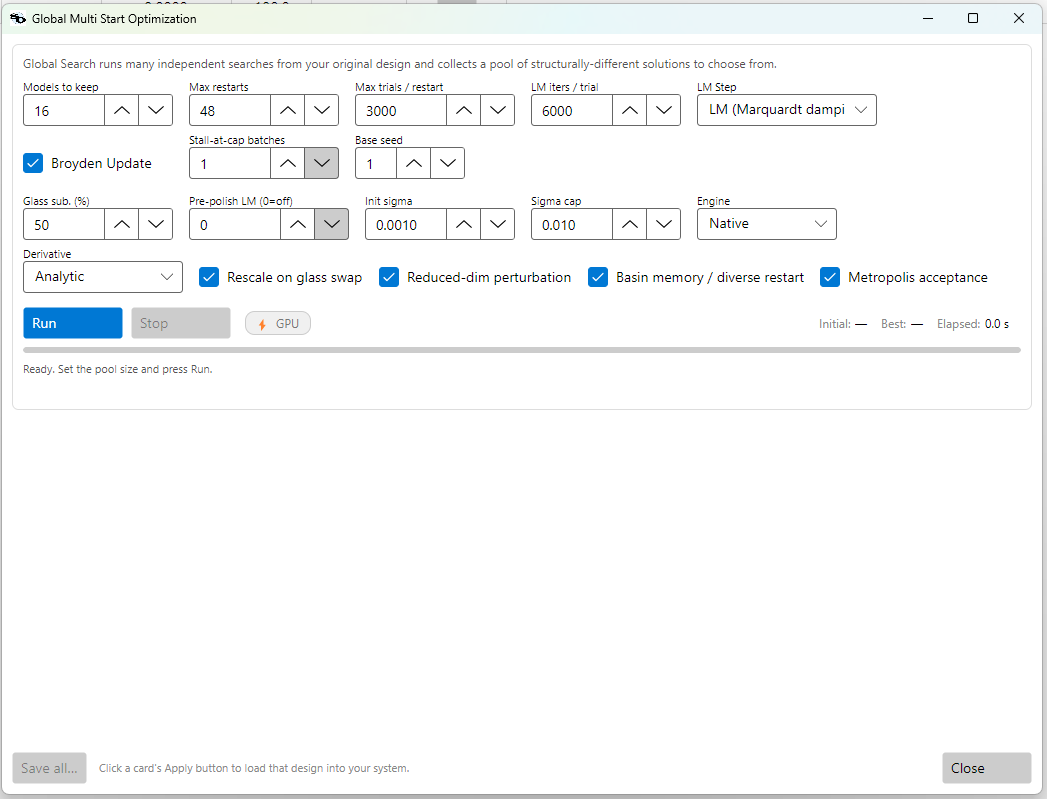
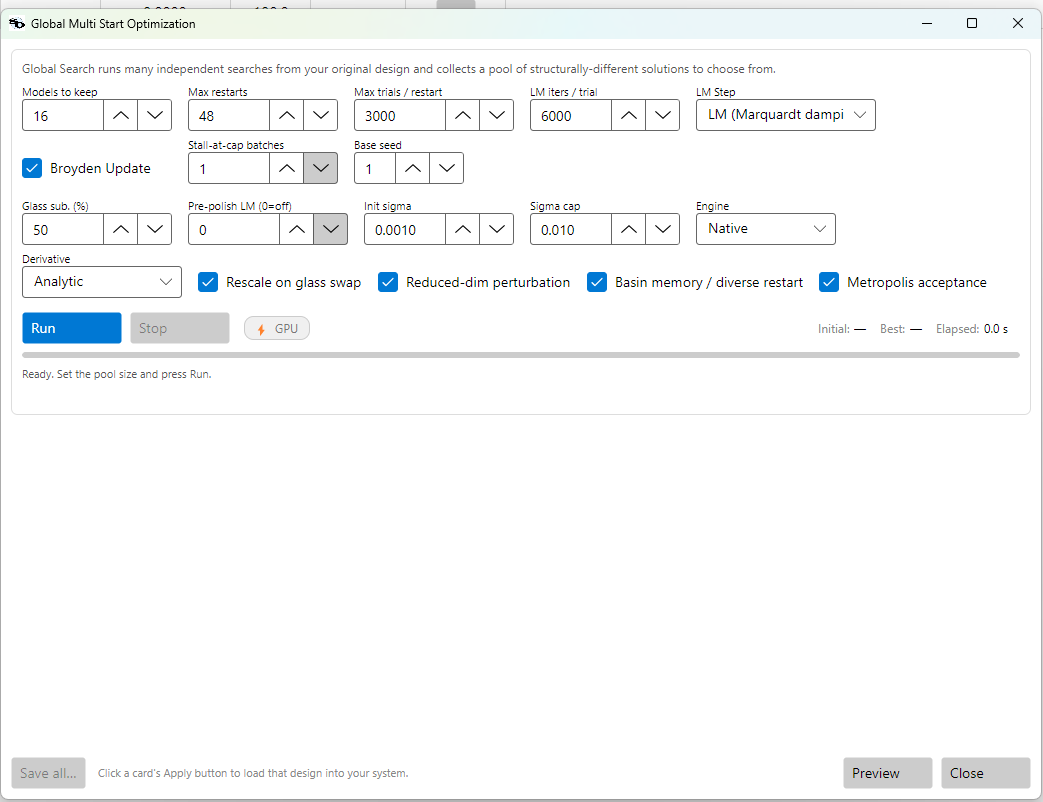
Wire in the Preview screenshot; two defects it exposed
The new ComputePathPreview.png replaces the fenced sample of the report — the
modal is what the reader actually sees. The fence stays for the DOWNGRADED case,
which the screenshot does not show.

Two real defects the screenshots caught:

  - The Preview title read "Hooke-Jeeves + LevenbergMarquardt". I interpolated
    StepMethod straight into the string; StepOption.Label already carries the
    name the dialog itself displays ("LM (Marquardt damping)"). Fixed in all
    five dialogs.

  - Global Basin Hopping rendered "Stop on no improvementTimeout (s):" with no
    gap — the same crowding fixed in Basin Hopping when its checkbox was
    relabelled, missed here because that label did not change.

Captions updated for the retaken shots; the Global BH one now mentions the
reseed row. Every image reference in the four touched documents resolves.

diff --git a/src/LensHH.App/ViewModels/OptimizationDialogViewModel.cs b/src/LensHH.App/ViewModels/OptimizationDialogViewModel.cs
@@ -125,7 +125,7 @@ public partial class OptimizationDialogViewModel : ObservableObject
     public string BuildComputePathPreview()
         => LensHH.App.Views.ComputePathPreview.Build(
             _session,
-            "Local optimization (" + (SelectedStep?.Value ?? StepMethod.LevenbergMarquardt) + ")",
+            "Local optimization (" + (SelectedStep?.Label ?? "LM") + ")",
             // This dialog does not expose an engine choice — it always asks for the native
             // analytic path and relies on the planner's fallbacks. Keep these two literals in
             // step with StartOptimization below.

diff --git a/src/LensHH.App/ViewModels/GlobalBasinHoppingDialogViewModel.cs b/src/LensHH.App/ViewModels/GlobalBasinHoppingDialogViewModel.cs
@@ -174,7 +174,7 @@ public partial class GlobalBasinHoppingDialogViewModel : ObservableObject
     public string BuildComputePathPreview()
         => LensHH.App.Views.ComputePathPreview.Build(
             _session,
-            "Global Basin Hopping (Hooke-Jeeves + " + (SelectedStep?.Value ?? StepMethod.LevenbergMarquardt) + ")",
+            "Global Basin Hopping (Hooke-Jeeves + " + (SelectedStep?.Label ?? "LM") + ")",
             (EngineModeIndex == 1) ? EngineMode.Native : EngineMode.CSharp,
             (DerivativeModeIndex == 1)
                 ? LensHH.Core.NativeInterop.MeritDerivativeMode.Analytic

diff --git a/src/LensHH.App/ViewModels/BasinHoppingHjLmDialogViewModel.cs b/src/LensHH.App/ViewModels/BasinHoppingHjLmDialogViewModel.cs
@@ -268,7 +268,7 @@ public partial class BasinHoppingHjLmDialogViewModel : ObservableObject
     public string BuildComputePathPreview()
         => LensHH.App.Views.ComputePathPreview.Build(
             _session,
-            "Basin Hopping (Hooke-Jeeves + " + (SelectedStep?.Value ?? StepMethod.LevenbergMarquardt) + ")",
+            "Basin Hopping (Hooke-Jeeves + " + (SelectedStep?.Label ?? "LM") + ")",
             (EngineModeIndex == 1) ? EngineMode.Native : EngineMode.CSharp,
             (DerivativeModeIndex == 1)
                 ? LensHH.Core.NativeInterop.MeritDerivativeMode.Analytic

diff --git a/src/LensHH.App/ViewModels/GlobalSearchDialogViewModel.cs b/src/LensHH.App/ViewModels/GlobalSearchDialogViewModel.cs
@@ -147,7 +147,7 @@ namespace LensHH.App.ViewModels
         public string BuildComputePathPreview()
             => LensHH.App.Views.ComputePathPreview.Build(
                 _session,
-                "Global Search (" + (SelectedStep?.Value ?? StepMethod.LevenbergMarquardt) + ")",
+                "Global Search (" + (SelectedStep?.Label ?? "LM") + ")",
                 (EngineModeIndex == 1) ? EngineMode.Native : EngineMode.CSharp,
                 (DerivativeModeIndex == 1)
                     ? LensHH.Core.NativeInterop.MeritDerivativeMode.Analytic

diff --git a/src/LensHH.App/ViewModels/MultistartDialogViewModel.cs b/src/LensHH.App/ViewModels/MultistartDialogViewModel.cs
@@ -282,7 +282,7 @@ public partial class MultistartDialogViewModel : ObservableObject
     public string BuildComputePathPreview()
         => LensHH.App.Views.ComputePathPreview.Build(
             _session,
-            "Multistart (" + (SelectedStep?.Value ?? StepMethod.LevenbergMarquardt) + ")",
+            "Multistart (" + (SelectedStep?.Label ?? "LM") + ")",
             (EngineModeIndex == 1) ? EngineMode.Native : EngineMode.CSharp,
             (DerivativeModeIndex == 1)
                 ? LensHH.Core.NativeInterop.MeritDerivativeMode.Analytic

diff --git a/docs/optimization.md b/docs/optimization.md
@@ -51,6 +51,10 @@ Preview reports:
 - **whether the GPU takes part**, and if not, why not;
 - the variable and operand counts, and whether the native engine loaded.
 
+![The Compute path preview modal, opened from the Basin Hopping dialog. It names the algorithm and step method, then the path that will run, the path that was requested, and — when the two differ — the reason. The **Also** block reports whether the native engine loaded, the variable and operand counts, and whether the GPU takes part. The closing note is dialog-specific: for Basin Hopping it points out that every chain builds its local optimizer from these settings, so one path describes them all.](images/ComputePathPreview.png)
+
+When the requested path *cannot* be used, the report says so and names the cause:
+
 ```
 WILL RUN:  C# Finite-Difference (fell back from Native: model-glass variables)
 
@@ -58,11 +62,6 @@ Requested: Native Analytic
 
 DOWNGRADED, because:
   model-glass variables
-
-Also:
-  - Native engine: loaded (v0.1.0).
-  - 21 variable(s), 27 merit operand(s).
-  - GPU: not requested - the merit runs on the CPU.
 ```
 
 Preview asks the same code the optimizer uses to choose its path, so it cannot
@@ -1297,7 +1296,7 @@ Only-randomize-constrained, the Glass Source, the **Metropolis walk** (with its
 behave identically *inside* each episode. The differences are the three controls
 that govern the global loop:
 
-![The Global Basin-Hopping HJ+LM dialog. The per-chain knobs match Basin Hopping — including the **Metropolis walk** / **Temp** and the **Restart@stall** / **Restart σ** long-jump restart — while **Global (min)** caps the whole run and **Stop on no improvement** is locked on (only its Timeout is editable), because the restart-from-elite migration between chains depends on episodes being allowed to stall.](images/GlobalBasinHoppingSettings.png)
+![The Global Basin-Hopping HJ+LM dialog. The per-chain knobs match Basin Hopping — including the **Metropolis walk** / **Temp** and the **Restart@stall** / **Restart σ** long-jump restart — while **Global (min)** caps the whole run and **Stop on no improvement** is locked on (only its Timeout is editable), because the restart-from-elite migration between chains depends on episodes being allowed to stall. The **Reseed after / if worse than** row is the within-episode rescue, and it means the same thing here as in Basin Hopping.](images/GlobalBasinHoppingSettings.png)
 
 | Setting | Default | Meaning |
 |---|---|---|
